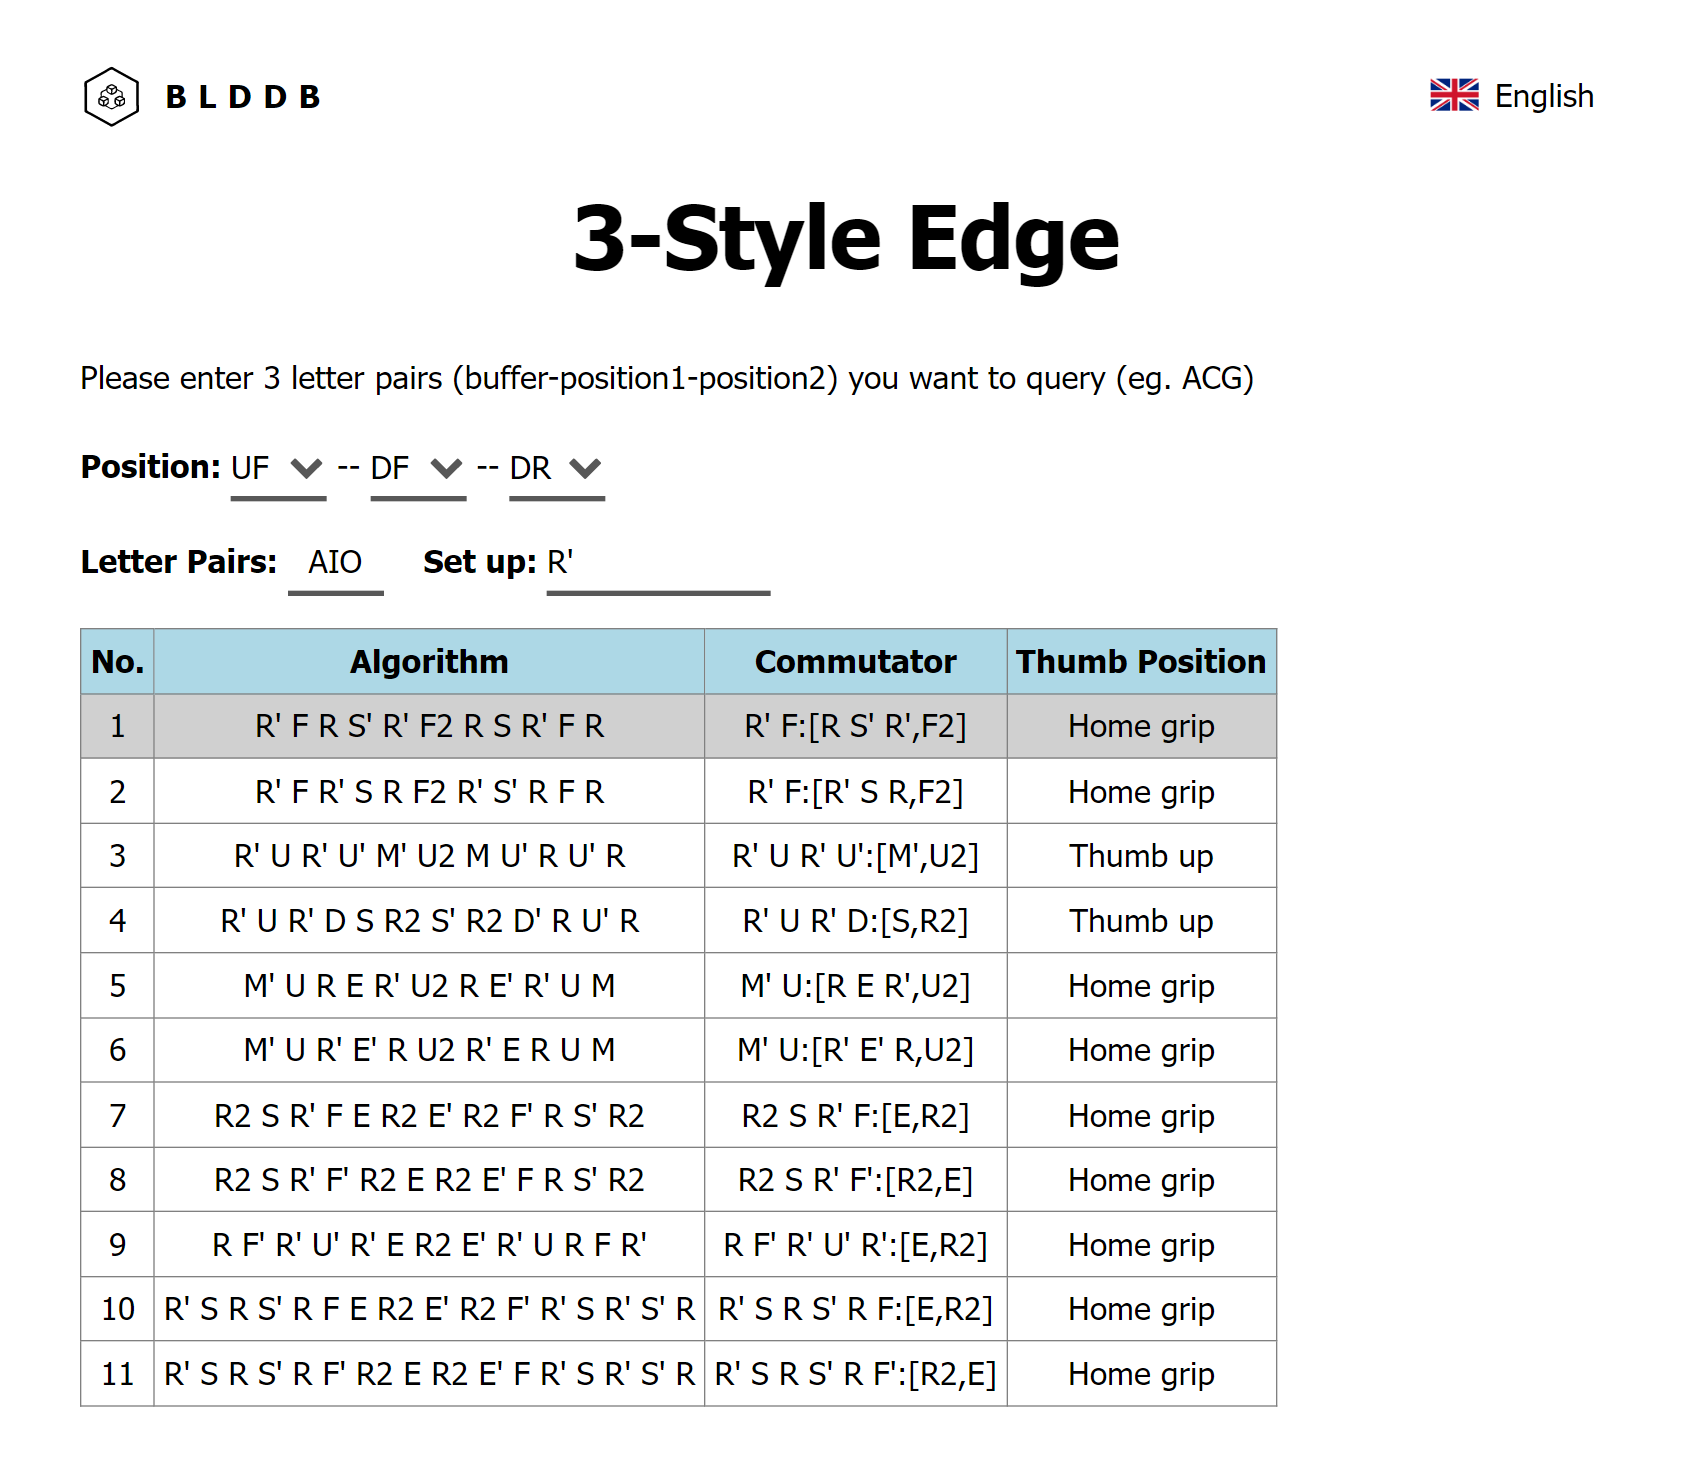
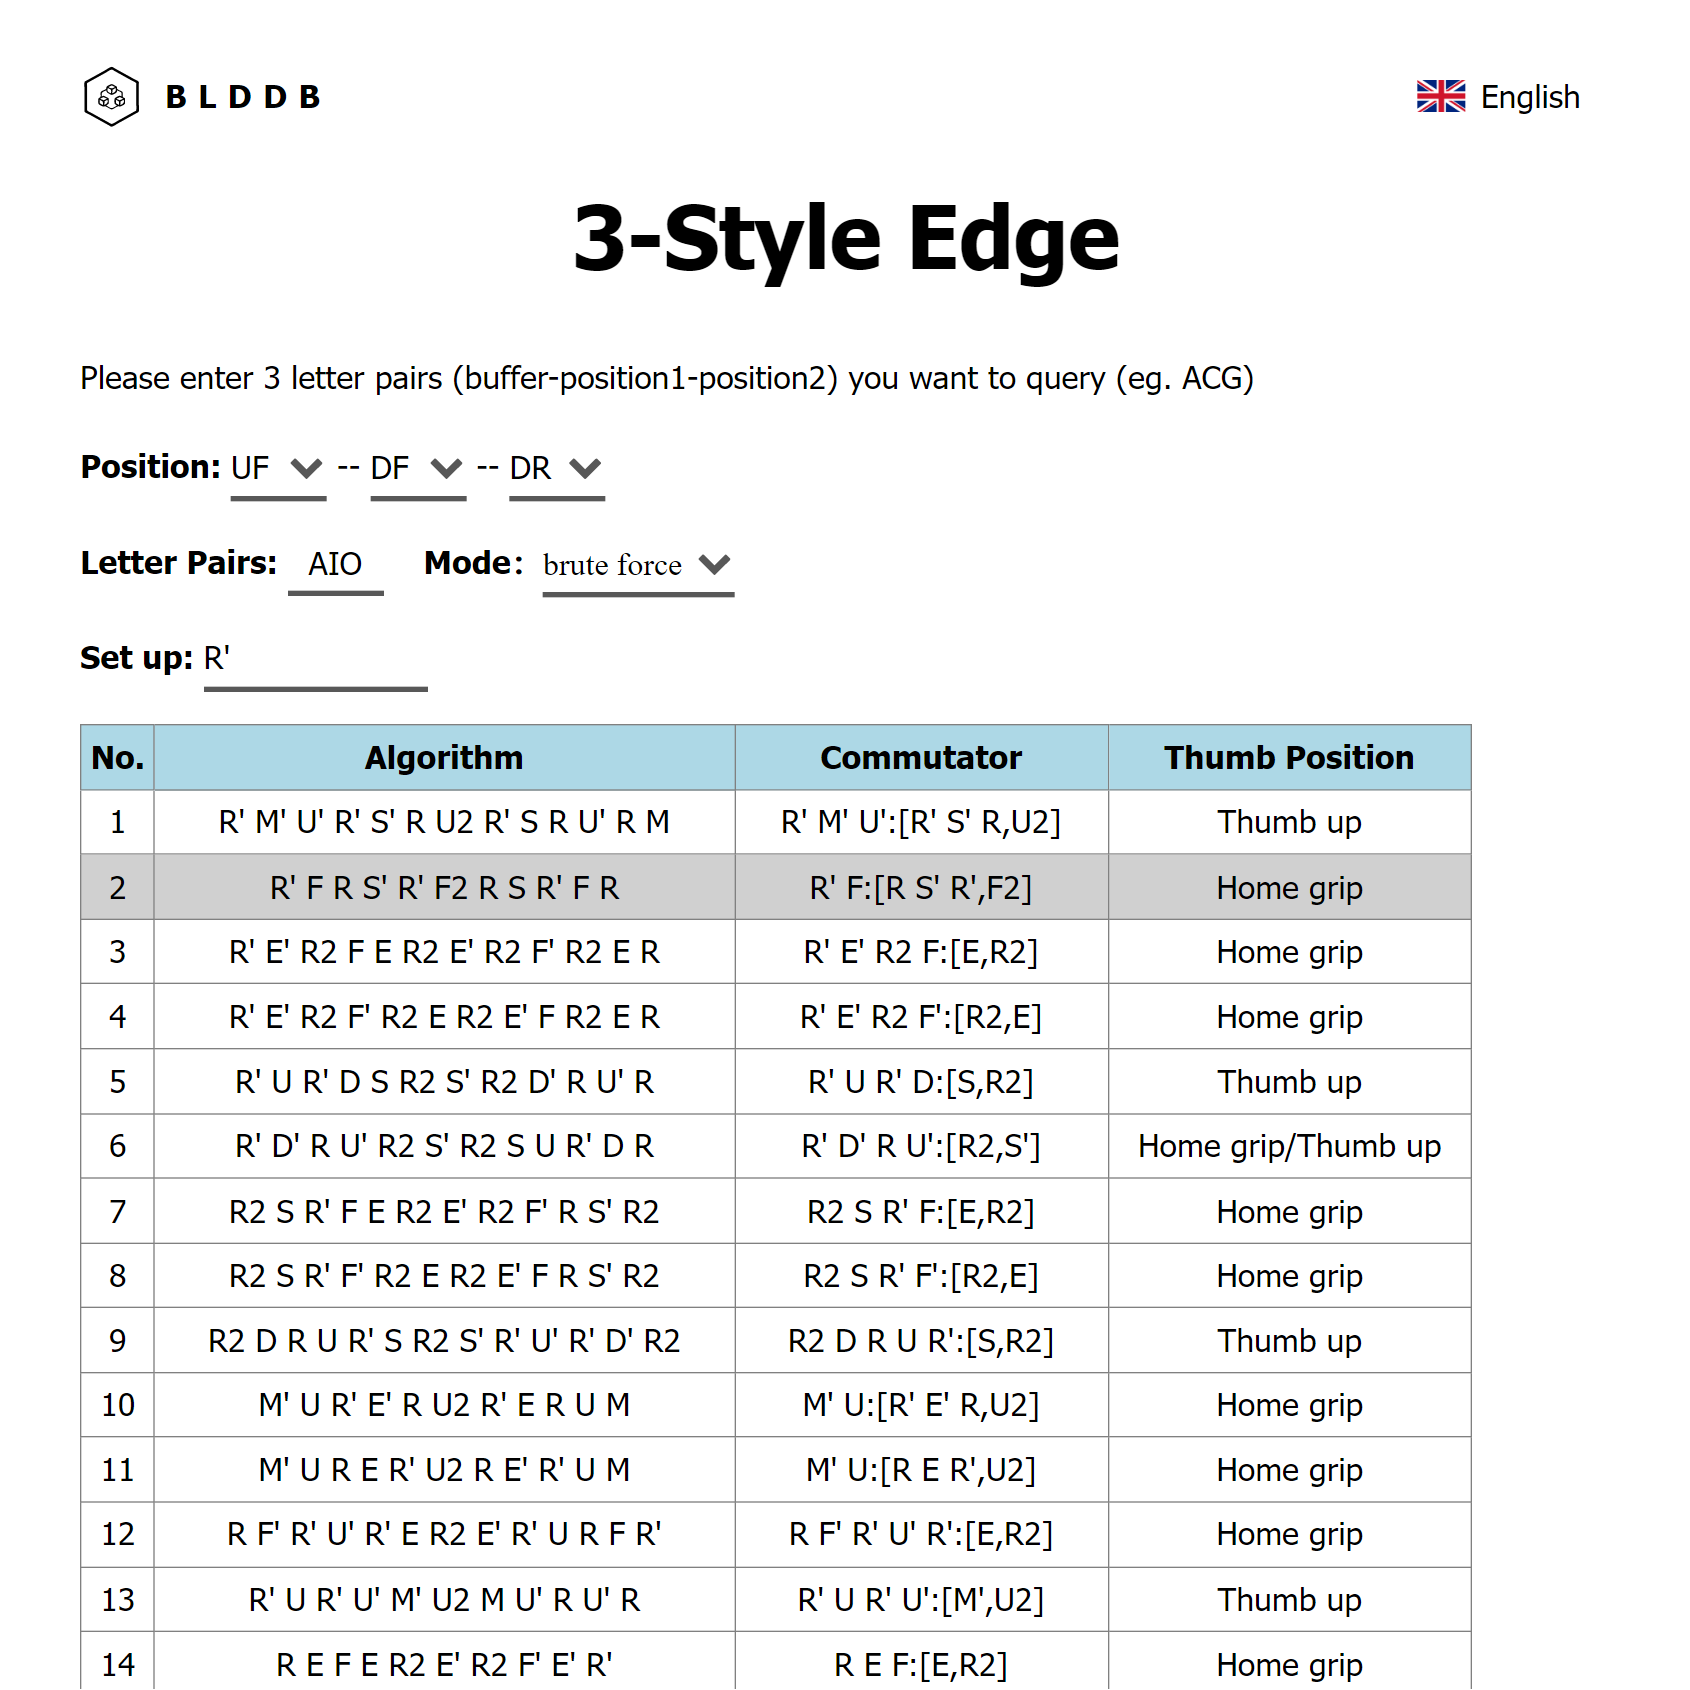
Update `edge` and `2flips`

Changed region(s): [[0.0308, 0.1233, 0.8923, 1.0], [0.0615, 0.0308, 0.1846, 0.0925], [0.8308, 0.0308, 0.9538, 0.0925]]

diff --git a/en/index.html b/en/index.html
@@ -159,7 +159,7 @@
                   <li><strong>GitHub (docs):</strong> <a href="https://github.com/nbwzx/blddb-docs"
                       target="_blank">github.com/nbwzx/blddb-docs</a></li>
                   <li><strong>Created:</strong> June 12<sup>th</sup>, 2022</li>
-                  <li><strong>Update:</strong> November 15<sup>th</sup>, 2022</li>
+                  <li><strong>Update:</strong> December 21<sup>st</sup>, 2022</li>
                 </ul>
               </div>
             </div>
@@ -417,11 +417,8 @@
           <section id="idocs_3_style_edge">
             <h3>3-Style Edge</h3>
             <p>
-              　　Most of the algorithms are traditional ones (including some symmetrical cases or swapping U, U' moves
-              simply). It is temporarily impossible to brute-force all the positive solutions under the similar
-              restrictions. Thus, the ranking is based on the number of moves (STM). At most 18 algorithms with the
-              highest ranking are displayed on the website and the one in gray is the main algorithm in the latest
-              nightmare algorithm set.
+              　　3-Style Edge uses similar methods as the 3-Style Corner, but is much more complicated, so at most 100
+              algorithms with the highest ranking are displayed on the website.
             </p>
             <p><a class="popup-img" href="../assets/images/en/blddb.net_edge.html.png"><img
                   src="../assets/images/en/blddb.net_edge.html.png" class="img-fluid img-thumbnail" alt="image"
@@ -528,7 +525,8 @@
               operations are R/U/D layer moves and left hand is always set in home grip position.
             </p>
             <p>
-              　　<strong style="color:red">Notice: </strong> Compared with the traditional corner algorithm set, F/B layer
+              　　<strong style="color:red">Notice: </strong> Compared with the traditional corner algorithm set, F/B
+              layer
               moves are added to avoid D2 moves
               and non-alternate D and D' moves, which may lead to great potential of speeding up. All algorithms
               provided follow with a commutator form for blinders of all level to learn and understand.
@@ -547,7 +545,8 @@
               operations.
             </p>
             <p>
-              　　<strong style="color:red">Notice: </strong> Some algorithms provided are not traditional commutators. For
+              　　<strong style="color:red">Notice: </strong> Some algorithms provided are not traditional commutators.
+              For
               blinders whose buffer is not in S
               slice (e.g. UF buffer), learning nightmare set is more difficult than traditional set.
             </p>

diff --git a/zh/index.html b/zh/index.html
@@ -160,7 +160,7 @@
                   <li><strong>GitHub (docs):</strong> <a href="https://github.com/nbwzx/blddb-docs"
                       target="_blank">github.com/nbwzx/blddb-docs</a></li>
                   <li><strong>创建:</strong> 2022年6月12日</li>
-                  <li><strong>更新:</strong> 2022年11月15日</li>
+                  <li><strong>更新:</strong> 2022年12月21日</li>
                 </ul>
               </div>
             </div>
@@ -382,7 +382,7 @@
                   src="../assets/images/zh/blddb.net_corner.html.png" class="img-fluid img-thumbnail" alt="image"
                   style="width:min(70%, 600px)"></a></p>
             <p>
-              　　此外，现在用户可以在噩梦、平衡 、圆子中选择喜欢的风格作为角块公式库的风格。请参阅下表了解它们之间的主要差异。
+              　　此外，现在用户可以在噩梦、平衡、圆子中选择喜欢的风格作为角块公式库的风格。请参阅下表了解它们之间的主要差异。
             </p>
             <p><a class="popup-img" href="../assets/images/zh/blddb.net_corner.html (1).png"><img
                   src="../assets/images/zh/blddb.net_corner.html (1).png" class="img-fluid img-thumbnail" alt="image"
@@ -396,8 +396,7 @@
           <section id="idocs_3_style_edge">
             <h3>棱块公式库</h3>
             <p>
-              　　棱块公式库大多都是一些传统公式和传统公式的衍生公式（例如镜像，U 和 U'
-              互换等）。这是因为在类似的体系和限制下，棱块每种状态的公式数比角块多很多，暂时无法做到像角块一样暴力搜索出全部解法。其中。排序暂时仅通过转动步数进行升序排列，排序前18条的公式会被显示在网页上，其中灰色的是最新的噩梦版公式集采用的公式。
+              　　棱块公式库采用了角块公式库中类似的算法，但是比角块公式复杂得多，所以排序前100条的公式会被显示在网页上。
             </p>
             <p><a class="popup-img" href="../assets/images/zh/blddb.net_edge.html.png"><img
                   src="../assets/images/zh/blddb.net_edge.html.png" class="img-fluid img-thumbnail" alt="image"
